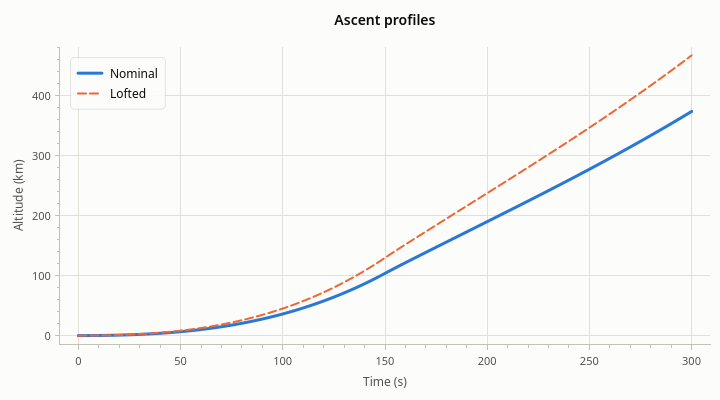
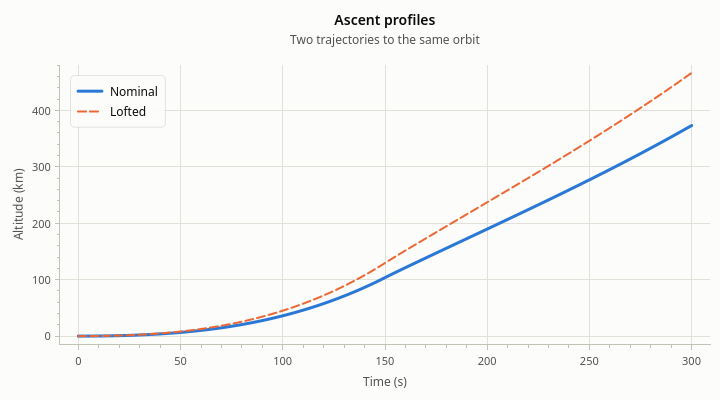
Add a subtitle under a plot's title
PlotWidget::subtitle is a line under the title, centered over the plot area like it, in the theme's
secondary text color at regular weight (Theme::subtitleFontScale, 1.0 of the widget's font): what a
plot is of, its conditions, a date. Without a title it takes the title's place. It is part of the
room above the plot area, so the plots of a grid row still line up when only some have one. Like the
title it is content, not part of the saved state.

The guide's parts-of-a-plot example and the demo's first page show one.

Claude-Session: https://claude.ai/code/session_01QxHMWPgvkqAfY833oRACtv

diff --git a/tests/widgets/PlotWidgetTests.cpp b/tests/widgets/PlotWidgetTests.cpp
@@ -2,12 +2,14 @@
 
 #include <QApplication>
 #include <QColor>
+#include <QFont>
 #include <QImage>
 #include <QMetaObject>
 #include <QMetaProperty>
 #include <QPalette>
 #include <QPoint>
 #include <QPointF>
+#include <QRect>
 #include <QRectF>
 #include <QSignalSpy>
 #include <QTest>
@@ -17,6 +19,7 @@
 #include <cmath>
 #include <cstddef>
 #include <limits>
+#include <utility>
 #include <vector>
 
 #include <gtest/gtest.h>
@@ -381,6 +384,84 @@ TEST_F(PlotWidgetTest, RichTextLabels)
     m_plot.series().front()->setName(QStringLiteral("<b>first</b>"));
     m_plot.legend()->setVisible(true);
     EXPECT_FALSE(m_plot.grab().isNull());
+}
+
+// The smallest rectangle around the pixels that differ between two images; empty if none do.
+QRect differenceOf(const QImage& a, const QImage& b)
+{
+    QRect ink;
+    for (int y = 0; y < a.height(); ++y)
+    {
+        for (int x = 0; x < a.width(); ++x)
+        {
+            if (a.pixel(x, y) != b.pixel(x, y))
+            {
+                ink |= QRect(x, y, 1, 1);
+            }
+        }
+    }
+    return ink;
+}
+
+TEST_F(PlotWidgetTest, ASubtitleGoesUnderTheTitle)
+{
+    QSignalSpy changed(&m_plot, &PlotWidget::subtitleChanged);
+    QFont      font = m_plot.font();
+    font.setPixelSize(30);  // large glyphs, with pixels of the text's own color
+    m_plot.setFont(font);
+    m_plot.setTitle("Ascent");
+    const double titledTop = m_plot.plotArea().top();
+    m_plot.setSubtitle("Flight 7");
+    EXPECT_EQ(m_plot.subtitle(), "Flight 7");
+    EXPECT_EQ(changed.count(), 1);
+    m_plot.setSubtitle("Flight 7");
+    EXPECT_EQ(changed.count(), 1);
+    EXPECT_GT(m_plot.plotArea().top(), titledTop + 20.0);  // the plot area makes room for it
+
+    // Where each is drawn: what changes with the text, the layout staying the same.
+    const auto inkOf = [this](void (PlotWidget::*set)(const QString&)) {
+        (m_plot.*set)("Flight 7");
+        const QImage one = m_plot.grab().toImage();
+        (m_plot.*set)("Flight 8");
+        const QImage other = m_plot.grab().toImage();
+        (m_plot.*set)("Flight 7");
+        return std::pair(differenceOf(one, other), other);
+    };
+    const auto [titleInk, titled]       = inkOf(&PlotWidget::setTitle);
+    const auto [subtitleInk, subtitled] = inkOf(&PlotWidget::setSubtitle);
+    ASSERT_FALSE(titleInk.isEmpty());
+    ASSERT_FALSE(subtitleInk.isEmpty());
+    EXPECT_GT(subtitleInk.top(), titleInk.bottom());
+    EXPECT_LT(subtitleInk.bottom(), m_plot.plotArea().top());
+
+    // In the secondary text color, where the title is in the text color.
+    const auto has = [](const QImage& image, const QRect& area, const QColor& color) {
+        for (int y = area.top(); y <= area.bottom(); ++y)
+        {
+            for (int x = area.left(); x <= area.right(); ++x)
+            {
+                if (image.pixelColor(x, y) == color)
+                {
+                    return true;
+                }
+            }
+        }
+        return false;
+    };
+    EXPECT_TRUE(has(subtitled, subtitleInk, m_plot.theme().secondaryText));
+    EXPECT_FALSE(has(subtitled, subtitleInk, m_plot.theme().text));
+    EXPECT_TRUE(has(titled, titleInk, m_plot.theme().text));
+}
+
+TEST_F(PlotWidgetTest, ASubtitleWithoutATitleIsWhereTheTitleWouldBe)
+{
+    const double plain = m_plot.plotArea().top();
+    m_plot.setSubtitle("Flight 7");
+    const double subtitled = m_plot.plotArea().top();
+    EXPECT_GT(subtitled, plain + 8.0);
+    m_plot.setSubtitle({});
+    m_plot.setTitle("Flight 7");
+    EXPECT_GT(m_plot.plotArea().top(), subtitled);  // the title's font is larger
 }
 
 TEST_F(PlotWidgetTest, ResetViewTurnsAutoscaleOnEverywhere)

diff --git a/src/PlotLayout.cpp b/src/PlotLayout.cpp
@@ -34,7 +34,8 @@ namespace
 {
 
 constexpr double kOuterPadding  = 10.0;
-constexpr double kTitleGap      = 10.0;
+constexpr double kTitleGap      = 10.0;  // under the title (and subtitle)
+constexpr double kSubtitleGap   = 2.0;   // between the title and the subtitle
 constexpr double kAxisLabelGap  = 6.0;
 constexpr double kAnnotationGap = 4.0;
 constexpr double kMinPlotSize   = 16.0;
@@ -176,6 +177,7 @@ void setFonts(PlotLayout& layout, const QFont& font, const Theme& theme)
     layout.labelFont = scaledFont(font, theme.labelFontScale);
     layout.titleFont = scaledFont(font, theme.titleFontScale);
     layout.titleFont.setWeight(QFont::DemiBold);
+    layout.subtitleFont   = scaledFont(font, theme.subtitleFontScale);
     layout.legendFont     = layout.labelFont;
     layout.annotationFont = scaledFont(font, theme.annotationFontScale);
 }
@@ -198,8 +200,8 @@ bool needsAnnotation(const Axis& axis, bool shown, double length, double spacing
     return !probe.annotation.isEmpty();
 }
 
-// The vertical stack: title, the y axes' annotation row, the plot, the x axis, the x label and
-// annotation row.
+// The vertical stack: title, subtitle, the y axes' annotation row, the plot, the x axis, the x
+// label and annotation row.
 struct Vertical
 {
     double plotTop       = 0.0;
@@ -229,7 +231,18 @@ Vertical layoutVertically(const PlotWidget& plot, PlotLayout& layout, TextPainte
     {
         const double height = text.size(plot.title(), layout.titleFont).height();
         layout.title        = QRectF(bounds.left(), top, bounds.width(), height);
-        top += height + kTitleGap;
+        top += height;
+    }
+    if (!plot.subtitle().isEmpty())
+    {
+        top += layout.title.isNull() ? 0.0 : kSubtitleGap;
+        const double height = text.size(plot.subtitle(), layout.subtitleFont).height();
+        layout.subtitle     = QRectF(bounds.left(), top, bounds.width(), height);
+        top += height;
+    }
+    if (!layout.title.isNull() || !layout.subtitle.isNull())
+    {
+        top += kTitleGap;
     }
     vertical.annotationTop = top;
     // Without annotations, room for the top y label, which sticks out above the plot.
@@ -385,11 +398,14 @@ void placeAxes(const PlotWidget& plot, PlotLayout& layout, const Vertical& verti
     layout.y2.annotationRect = QRectF(area.center().x(), vertical.annotationTop,
                                       contentRight - area.center().x(), tickHeight);
 
-    // The title is centered over the plot area, not the whole widget.
-    if (!layout.title.isNull())
+    // The title and subtitle are centered over the plot area, not the whole widget.
+    for (QRectF* heading : {&layout.title, &layout.subtitle})
     {
-        layout.title.setLeft(area.left());
-        layout.title.setRight(area.right());
+        if (!heading->isNull())
+        {
+            heading->setLeft(area.left());
+            heading->setRight(area.right());
+        }
     }
 }
 

diff --git a/include/rocketplot/PlotWidget.h b/include/rocketplot/PlotWidget.h
@@ -98,6 +98,7 @@ class ROCKETPLOT_EXPORT PlotWidget : public QWidget
 {
     Q_OBJECT
     Q_PROPERTY(QString title READ title WRITE setTitle NOTIFY titleChanged)
+    Q_PROPERTY(QString subtitle READ subtitle WRITE setSubtitle NOTIFY subtitleChanged)
     Q_PROPERTY(QString mathFontFamily READ mathFontFamily WRITE setMathFontFamily RESET
                    resetMathFontFamily NOTIFY mathFontFamilyChanged)
     Q_PROPERTY(
@@ -218,6 +219,11 @@ public:
 
     [[nodiscard]] QString title() const;
     void                  setTitle(const QString& title);
+    /// A line under the title, in the theme's secondary text color at regular weight: what the
+    /// plot is of, its conditions, a date. Empty (the default) for none; a subtitle without a
+    /// title is shown where the title would be.
+    [[nodiscard]] QString subtitle() const;
+    void                  setSubtitle(const QString& subtitle);
 
     /// The font of math between $ signs in the title, labels, legend names and annotations
     /// ("Speed $v_z$"): the family of an installed OpenType math font (one with a MATH table:
@@ -369,6 +375,7 @@ public:
 
 Q_SIGNALS:
     void titleChanged();
+    void subtitleChanged();
     void mathFontFamilyChanged();
     void themeChanged();
     void debugOverlayChanged();

diff --git a/src/PlotWidget.cpp b/src/PlotWidget.cpp
@@ -180,6 +180,7 @@ struct PlotWidget::Private
     QList<Series*>                         series;
     QList<Annotation*>                     annotations;
     QString                                title;
+    QString                                subtitle;
     InputBindings                          bindings = InputBindings::defaults();
     std::optional<double>                  linkedX;  // a linked plot's crosshair
     std::optional<QPointF>                 hover;    // the pointer over the plot area
@@ -639,6 +640,22 @@ void PlotWidget::setTitle(const QString& title)
     m_impl->title = title;
     invalidate();
     Q_EMIT titleChanged();
+}
+
+QString PlotWidget::subtitle() const
+{
+    return m_impl->subtitle;
+}
+
+void PlotWidget::setSubtitle(const QString& subtitle)
+{
+    if (subtitle == m_impl->subtitle)
+    {
+        return;
+    }
+    m_impl->subtitle = subtitle;
+    invalidate();
+    Q_EMIT subtitleChanged();
 }
 
 QString PlotWidget::mathFontFamily() const

diff --git a/include/rocketplot/Theme.h b/include/rocketplot/Theme.h
@@ -18,7 +18,7 @@ struct ROCKETPLOT_EXPORT Theme
 {
     QColor background;        ///< Behind everything
     QColor text;              ///< Title and legend text
-    QColor secondaryText;     ///< Axis labels and tick labels
+    QColor secondaryText;     ///< The subtitle, axis labels and tick labels
     QColor axisLine;          ///< Axis lines and ticks
     QColor gridLine;          ///< Grid lines at the major ticks
     QColor minorGridLine;     ///< Grid lines at the minor ticks (when shown)
@@ -50,6 +50,7 @@ struct ROCKETPLOT_EXPORT Theme
     double annotationFontScale = 0.9;  ///< Annotation text and labels
     double labelFontScale      = 1.0;
     double titleFontScale      = 1.2;
+    double subtitleFontScale   = 1.0;  ///< PlotWidget::subtitle()
 
     /// The color for the series that was given color index @p index.
     [[nodiscard]] QColor seriesColor(qsizetype index) const;

diff --git a/src/PlotRenderer.cpp b/src/PlotRenderer.cpp
@@ -705,6 +705,11 @@ void PlotRenderer::drawLabels(QPainter& painter) const
         m_text->draw(painter, m_plot->title(), m_layout->titleFont, m_theme->text, m_layout->title,
                      Qt::AlignCenter);
     }
+    if (!m_layout->subtitle.isNull())
+    {
+        m_text->draw(painter, m_plot->subtitle(), m_layout->subtitleFont, m_theme->secondaryText,
+                     m_layout->subtitle, Qt::AlignCenter);
+    }
 }
 
 void drawDebugOverlay(QPainter& painter, const PlotLayout& layout, const RenderStats& stats,
@@ -725,6 +730,7 @@ void drawDebugOverlay(QPainter& painter, const PlotLayout& layout, const RenderS
     const QColor orange(255, 150, 0, 200);
     outline(layout.plot, magenta);
     outline(layout.title, orange);
+    outline(layout.subtitle, orange);
     outline(legend, orange);
     for (const AxisLayout* axis : {&layout.x, &layout.y, &layout.y2})
     {

diff --git a/tests/widgets/PlotGridTests.cpp b/tests/widgets/PlotGridTests.cpp
@@ -265,6 +265,17 @@ TEST(PlotGrid, PlotAreasLineUpInRowsAndColumns)
     EXPECT_GT(area(0, 0).top(), area(1, 0).top());  // the title is in the top row
 }
 
+TEST(PlotGrid, PlotAreasLineUpWithASubtitleInARow)
+{
+    PlotGrid grid(1, 2);
+    grid.resize(800, 400);
+    grid.plot(0, 0)->setTitle("Altitude");
+    grid.plot(0, 1)->setTitle("Velocity");
+    grid.plot(0, 1)->setSubtitle("vertical, up");
+    static_cast<void>(grid.grab());
+    EXPECT_DOUBLE_EQ(grid.plot(0, 0)->plotArea().top(), grid.plot(0, 1)->plotArea().top());
+}
+
 TEST(PlotGrid, TheTitleGoesAboveThePlots)
 {
     PlotGrid grid(2, 1);

diff --git a/src/PlotLayout.h b/src/PlotLayout.h
@@ -52,6 +52,7 @@ struct PlotLayout
     QRectF bounds;  ///< The whole target
     QRectF plot;    ///< Inside the axes: where data is drawn
     QRectF title;
+    QRectF subtitle;
 
     AxisLayout x;
     AxisLayout y;
@@ -60,6 +61,7 @@ struct PlotLayout
     QFont tickFont;
     QFont labelFont;
     QFont titleFont;
+    QFont subtitleFont;
     QFont legendFont;
     QFont annotationFont;
 

diff --git a/docs/user-guide/examples/getting_started_examples.cpp b/docs/user-guide/examples/getting_started_examples.cpp
@@ -51,6 +51,7 @@ void partsOfAPlot(PlotWidget* plot)
 
     // The axes and the legend are always there.
     plot->setTitle("Ascent profiles");
+    plot->setSubtitle("Two trajectories to the same orbit");
     plot->xAxis()->setLabel("Time (s)");
     plot->yAxis()->setLabel("Altitude (km)");
     plot->legend()->setAnchor(rocketplot::LegendAnchor::TOP_LEFT);

diff --git a/demo/pages/BasicLinesPage.cpp b/demo/pages/BasicLinesPage.cpp
@@ -18,6 +18,7 @@ QWidget* create(QWidget* parent)
     // [snippet]
     auto* plot = new rocketplot::PlotWidget(parent);
     plot->setTitle("Engine bay temperatures");
+    plot->setSubtitle("Static fire 14, sensors at 10 Hz");
     plot->xAxis()->setLabel("Time (s)");
     plot->yAxis()->setLabel("Temperature (°C)");
 

diff --git a/docs/user-guide/getting-started.md b/docs/user-guide/getting-started.md
@@ -179,7 +179,7 @@ The axes fit the data by themselves, with a little room around it. That is *auto
 `PlotWidget` is an ordinary `QWidget`: put it in a layout, a splitter, a dock or a tab like any other. Everything
 else hangs off it.
 
-![A plot of two lines with a title, axis labels and a legend](images/plot-parts.png)
+![A plot of two lines with a title, a subtitle, axis labels and a legend](images/plot-parts.png)
 
 <!-- example: plot-parts -->
 ```cpp
@@ -190,6 +190,7 @@ plot->addLine(time, lofted, "Lofted")->setLineStyle(Qt::DashLine);
 
 // The axes and the legend are always there.
 plot->setTitle("Ascent profiles");
+plot->setSubtitle("Two trajectories to the same orbit");
 plot->xAxis()->setLabel("Time (s)");
 plot->yAxis()->setLabel("Altitude (km)");
 plot->legend()->setAnchor(rocketplot::LegendAnchor::TOP_LEFT);
@@ -201,7 +202,7 @@ plot->legend()->setAnchor(rocketplot::LegendAnchor::TOP_LEFT);
 | Axes | The x axis, the y axis on the left, and a second y axis on the right | `xAxis()`, `yAxis()`, `yAxis2()` |
 | Legend | One entry per named series | `legend()` |
 | Annotations | Lines, spans, text and event markers at data coordinates | `addHorizontalLine()`, `addVerticalSpan()`, `addText()`, `addEvent()`, ... |
-| Title | A line of text above the plot | `setTitle()` |
+| Title, subtitle | A line of text above the plot, and a smaller one under it | `setTitle()`, `setSubtitle()` |
 
 A series with a name gets an entry in the legend; one without a name has none. The legend shows up once there are
 two entries: a single series is better named by the title.

diff --git a/docs/user-guide/appearance.md b/docs/user-guide/appearance.md
@@ -55,7 +55,7 @@ The fields:
 | Field | What it colors or sizes |
 | --- | --- |
 | `background` | Behind everything |
-| `text`, `secondaryText` | Title and legend text; axis labels and tick labels |
+| `text`, `secondaryText` | Title and legend text; the subtitle, axis labels and tick labels |
 | `axisLine`, `gridLine`, `minorGridLine` | Axis lines and ticks; the grid at major ticks; at minor ticks |
 | `legendBackground`, `legendBorder` | The legend's box |
 | `crosshair`, `tagBackground`, `tagText` | The crosshair and its value tags on the axes |
@@ -66,7 +66,7 @@ The fields:
 | `errorBarWidth`, `errorCapSize`, `bandOpacity` | Defaults for errors: 1.5 and 6 pixels, 0.15 |
 | `annotationLineWidth`, `spanOpacity` | Defaults for annotations: 1 pixel, 0.12 |
 | `tickLength`, `minorTickLength` | 5 and 3 pixels |
-| `tickFontScale`, `labelFontScale`, `titleFontScale`, `annotationFontScale` | Font sizes as factors of the widget's font: 0.9, 1.0, 1.2, 0.9 |
+| `tickFontScale`, `labelFontScale`, `titleFontScale`, `subtitleFontScale`, `annotationFontScale` | Font sizes as factors of the widget's font: 0.9, 1.0, 1.2, 1.0, 0.9 |
 
 Sizes are in device-independent pixels.
 
